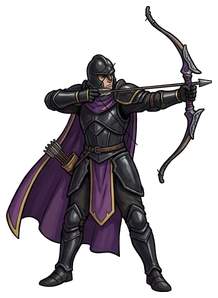
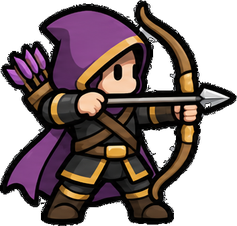
성벽 초소병 공격 5종을 메인 화풍으로 교체, 군주 근위대·초소병 완료 (베타 1.301)
Claude-Session: https://claude.ai/code/session_01EFTEodMUbbTSUTixRFZg7z

diff --git a/docs/asset-prompts.md b/docs/asset-prompts.md
@@ -1610,3 +1610,5 @@ Avoid: realistic proportions, tall lean adult body, long legs, small head, photo
 **13-11 ② 수정(궁수)**: 처음 ②에서 궁수 줄에 `black helmet and black leather armor`라고 적었더니 제미나이가 **투구와 갑옷을 입은 궁수**로 그렸다(같은 군대의 근위대 궁수는 두건에 가벼운 옷). 궁수 줄을 "투구·판금 갑옷 없는 두건 궁수(보라 두건·망토, 검정 천·가죽 옷, 화살통)"로 고쳤다(②의 1번, ③의 1번). 이미 뽑은 시트는 같은 대화에서 "궁수만 바꾸고 나머지 넷은 그대로"라고 말해 고친다.
 
 **13-11 ② 진행**: 궁수를 갑옷 없는 두건 궁수로 고쳐 다시 뽑은 시트를 받음, 적용됨(베타 1.300). 5종 모두 치비 비율·같은 색조(검정·보라·금)·단순한 얼굴. `assets/units/boss10_post_<archer|mage|spear|sword|blunt>_idle.png`(궁 241x248, 마법 237x258, 창 217x327, 검방 237x267, 둔기 272x286; 이전 높이에 가깝게 0.67배), 예전 그림은 `_old`로 보관. **초소병 공격 5종(`aim`·`cast`·`atk`)은 아직 예전 그림**이라 쏘거나 휘두를 때 모습이 바뀐다. 다음: ③ 초소병 공격 5종(받은 ② 시트를 세 번째 이미지로 첨부).
+
+**13-11 ③ 진행**: 초소병 공격 5종 받음, 적용됨(베타 1.301). ②의 인물과 똑같이 나왔고(궁수는 두건 유지, 활시위가 얼굴을 가로지르지 않음) 서 있는 모습과 같은 배율(0.67)로 맞췄다. `assets/units/boss10_post_archer_aim`(237x226)·`mage_cast`(247x346)·`spear_atk`(339x241)·`sword_atk`(291x237)·`blunt_atk`(240x322), 예전 그림은 `_old`로 보관. **13-11 군주 근위대 5종 + 초소병 10종이 모두 새 그림이다.** 시트를 자를 때 마법사의 소용돌이 조각이 따로 잡혀 한 번 실패했다: `tools/slice_sheet.py`는 높이가 `--min-height` 이상인 조각을 별개 스프라이트로 보므로, 이펙트 조각이 붙은 시트는 `--min-height`를 몸 높이에 가깝게 크게(250) 주고 `--attach`를 크게(120) 줘야 한다. **장군 본체·부속 병사 정리가 끝났다. 남은 것은 스켈레톤 6종(`skel_*`)과 각 보스의 이펙트(`assets/fx/boss*_*`)다.**
